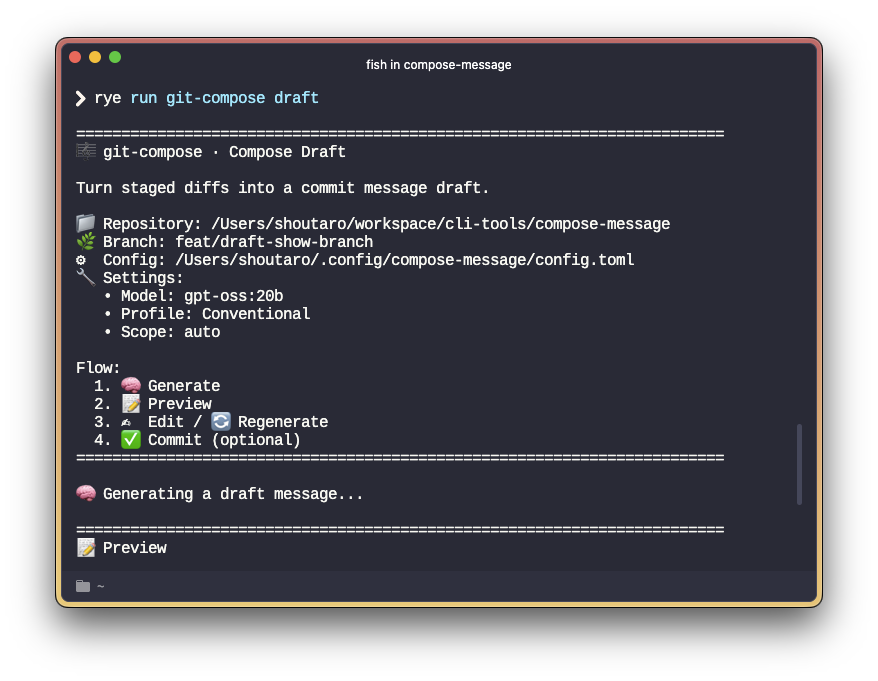
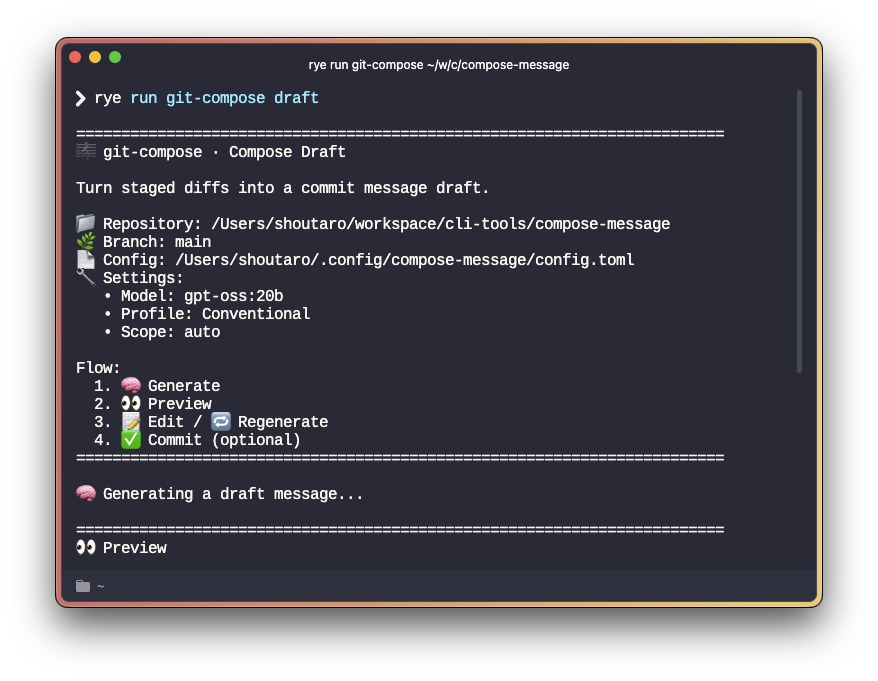
🛠 refactor(cli): update UI emojis and text for draft flow (#7)
Changes:
- Update README (English & Japanese) and docs preview image with new emojis for preview, edit, and regenerate steps.
- Replace ⚙ with 📄 in the draft command’s config output.
- Adjust the flow step labels in the draft command to use 👀 for preview and 📝 for edit, with updated regenerate prompt.
- Revise the “Next step” menu choices and related messages for edit and regenerate actions.
- Modify the init wizard prompts: language, provider, default action, commit style, scope strategy, and editor labels.
- Add tests folder for future test coverage.

diff --git a/src/compose_message/commands/init.py b/src/compose_message/commands/init.py
@@ -80,14 +80,14 @@ def init_wizard(*, local: bool) -> int:
     print(f"Config file: {target_path}")
     print()
     print("We'll ask you about:")
-    print("  1. 🌐 Language")
+    print("  1. 🌍 Language")
     print("  2. 🧩 Provider")
     print("  3. 🧠 Model")
-    print("  4. ✅ Default action")
-    print("  5. 🧾 Conventional Commits")
-    print("  6. 🏷  Scope")
+    print("  4. ⭐ Default action")
+    print("  5. 📜 Conventional Commits")
+    print("  6. 🏷  Scope")
     print("  7. 📦 Max diff size")
-    print("  8. ✍  Editor")
+    print("  8. 🧰 Editor")
     print()
     print("Tip: You can re-run this wizard at any time to update the settings.")
     print("=" * 72)
@@ -96,7 +96,8 @@ def init_wizard(*, local: bool) -> int:
     # Avoid accidental overwrites by confirming when a config file already exists.
     if target_path.exists():
         overwrite = questionary.confirm(
-            "A configuration file already exists. Overwrite it?",
+            "A configuration file already exists. Overwrite it?:",
+            qmark=QMARK,
             default=False,
         ).ask()
         if overwrite is None or overwrite is False:
@@ -105,7 +106,7 @@ def init_wizard(*, local: bool) -> int:
         print()
 
     # 1) Language (output locale)
-    print("🌐 Language")
+    print("🌍 Language")
     language = questionary.select(
         "Select output language:",
         qmark=QMARK,
@@ -123,7 +124,7 @@ def init_wizard(*, local: bool) -> int:
     provider: Provider = questionary.select(
         "Select provider:",
         qmark=QMARK,
-        choices=[questionary.Choice("Ollama", value="ollama")],
+        choices=[questionary.Choice("🦙 Ollama", value="ollama")],
     ).ask()
     if provider is None:
         print("Cancelled.")
@@ -160,12 +161,12 @@ def init_wizard(*, local: bool) -> int:
         return 2
 
     # 4) Default action in the draft command's "Next step" menu
-    print("\n✅ Default action")
+    print("\n⭐ Default action")
     default_action: DefaultAction = questionary.select(
         "Select the default action in the Next step menu:",
         qmark=QMARK,
         choices=[
-            questionary.Choice("✍  Edit (recommended)", value="edit"),
+            questionary.Choice("📝 Edit (recommended)", value="edit"),
             questionary.Choice("✅ Commit now", value="commit"),
         ],
         default="edit",
@@ -175,7 +176,7 @@ def init_wizard(*, local: bool) -> int:
         return 1
 
     # 5) Conventional Commits support
-    print("\n🧾 Commit message style")
+    print("\n📜 Commit message style")
     use_conventional = questionary.confirm(
         "Use Conventional Commits format?:",
         qmark=QMARK,
@@ -189,15 +190,13 @@ def init_wizard(*, local: bool) -> int:
 
     # 6) Scope handling for Conventional Commits
     if use_conventional:
-        print("\n🏷  Scope")
+        print("\n🏷  Scope")
         scope_strategy: ScopeStrategy = questionary.select(
             "Include a scope in commit messages?:",
             qmark=QMARK,
             choices=[
-                questionary.Choice(
-                    "Include scope (try to infer automatically)", value="auto"
-                ),
-                questionary.Choice("Do not include scope", value="omit"),
+                questionary.Choice("🤖 Auto-detect scope from changes", value="auto"),
+                questionary.Choice("🚫 Do not use scope", value="omit"),
             ],
             default="auto",
         ).ask()
@@ -223,7 +222,7 @@ def init_wizard(*, local: bool) -> int:
     max_diff_bytes = int(max_diff_bytes_str)
 
     # 8) Editor used to edit the generated message
-    print("\n✍  Editor")
+    print("\n🧰 Editor")
     editor = questionary.select(
         "Select editor for message editing:",
         qmark=QMARK,

diff --git a/src/compose_message/commands/draft.py b/src/compose_message/commands/draft.py
@@ -35,7 +35,7 @@ def _print_preview(message: str) -> None:
 
     print()
     print("=" * 72)
-    print("📝 Preview")
+    print("👀 Preview")
     print("-" * 72)
     print(message.rstrip())
     print("=" * 72)
@@ -145,7 +145,7 @@ def _draft_command(*, cwd: str | None) -> int:
     print(f"📁 Repository: {repo_root}")
     if branch:
         print(f"🌿 Branch: {branch}")
-    print(f"⚙  Config: {config_path}")
+    print(f"📄 Config: {config_path}")
     print("🔧 Settings:")
     print(f"   • Model: {config.model}")
     print(f"   • Profile: {profile_label}")
@@ -153,8 +153,8 @@ def _draft_command(*, cwd: str | None) -> int:
     print()
     print("Flow:")
     print("  1. 🧠 Generate")
-    print("  2. 📝 Preview")
-    print("  3. ✍  Edit / 🔄 Regenerate")
+    print("  2. 👀 Preview")
+    print("  3. 📝 Edit / 🔁 Regenerate")
     print("  4. ✅ Commit (optional)")
     print("=" * 72)
     print()
@@ -195,8 +195,8 @@ def _draft_command(*, cwd: str | None) -> int:
             "Next step:",
             qmark=QMARK,
             choices=[
-                questionary.Choice("✍  Edit", value="edit"),
-                questionary.Choice("🔄 Regenerate", value="regen"),
+                questionary.Choice("📝 Edit", value="edit"),
+                questionary.Choice("🔁 Regenerate", value="regen"),
                 questionary.Choice("✅ Commit now", value="commit"),
                 questionary.Choice("🚪 Exit (no commit)", value="exit"),
             ],
@@ -208,7 +208,7 @@ def _draft_command(*, cwd: str | None) -> int:
             return 1
 
         if action == "regen":
-            print("🧠 Regenerating...")
+            print("\n🧠 Regenerating...")
             message = _generate_with_provider(config, parts.system, parts.user)
             message = _clean_model_output(message)
             if not message.strip():
@@ -232,8 +232,8 @@ def _draft_command(*, cwd: str | None) -> int:
             break
 
         if action == "exit":
-            print("\nDraft generated. You can commit later with:")
-            print("  git commit")
+            print("\n🚪 Exited without committing.")
+            print("You can run this command again when you're ready.")
             return 0
 
     commit_with_message(message, cwd=cwd)

diff --git a/README.md b/README.md
@@ -27,8 +27,8 @@ A CLI tool that generates **structured commit message drafts** from staged chang
 ## ✨ Features
 
 - 🧠 Generate commit messages from staged changes
-- 📝 Interactive flow: preview → edit → regenerate
-- 🧾 Support for Conventional Commits (optional)
+- 👀 Interactive flow: preview → edit → regenerate
+- 📜 Support for Conventional Commits (optional)
 - 📐 Standardised body structure to prevent inconsistency
 - 🔒 Local LLM execution using Ollama (no external API required)
 - 🔌 Planned support for multiple LLM providers such as OpenAI, Gemini, Claude
@@ -78,8 +78,8 @@ git compose draft
 
 ```
 1. 🧠 Generate
-2. 📝 Preview
-3. ✍  Edit / 🔄 Regenerate
+2. 👀 Preview
+3. 📝 Edit / 🔁 Regenerate
 4. ✅ Commit (optional)
 ```
 

diff --git a/README.ja.md b/README.ja.md
@@ -28,8 +28,8 @@
 ## ✨ 特徴
 
 - 🧠 ステージ済み差分からコミットメッセージを生成
-- 📝 プレビュー → 編集 → 再生成の対話的フロー
-- 🧾 Conventional Commits 対応 (任意)
+- 👀 プレビュー → 編集 → 再生成の対話的フロー
+- 📜 Conventional Commits 対応 (任意)
 - 📐 本文構造を標準化し、書き方のブレを防止
 - 🔒 Ollama を利用したローカル LLM 実行 (外部 API 不要)
 - 🔌 今後 OpenAI / Gemini / Claude など複数の LLM プロバイダに対応予定
@@ -81,8 +81,8 @@ git compose draft
 
 ```
 1. 🧠 Generate
-2. 📝 Preview
-3. ✍  Edit / 🔄 Regenerate
+2. 👀 Preview
+3. 📝 Edit / 🔁 Regenerate
 4. ✅ Commit (optional)
 ```
 
